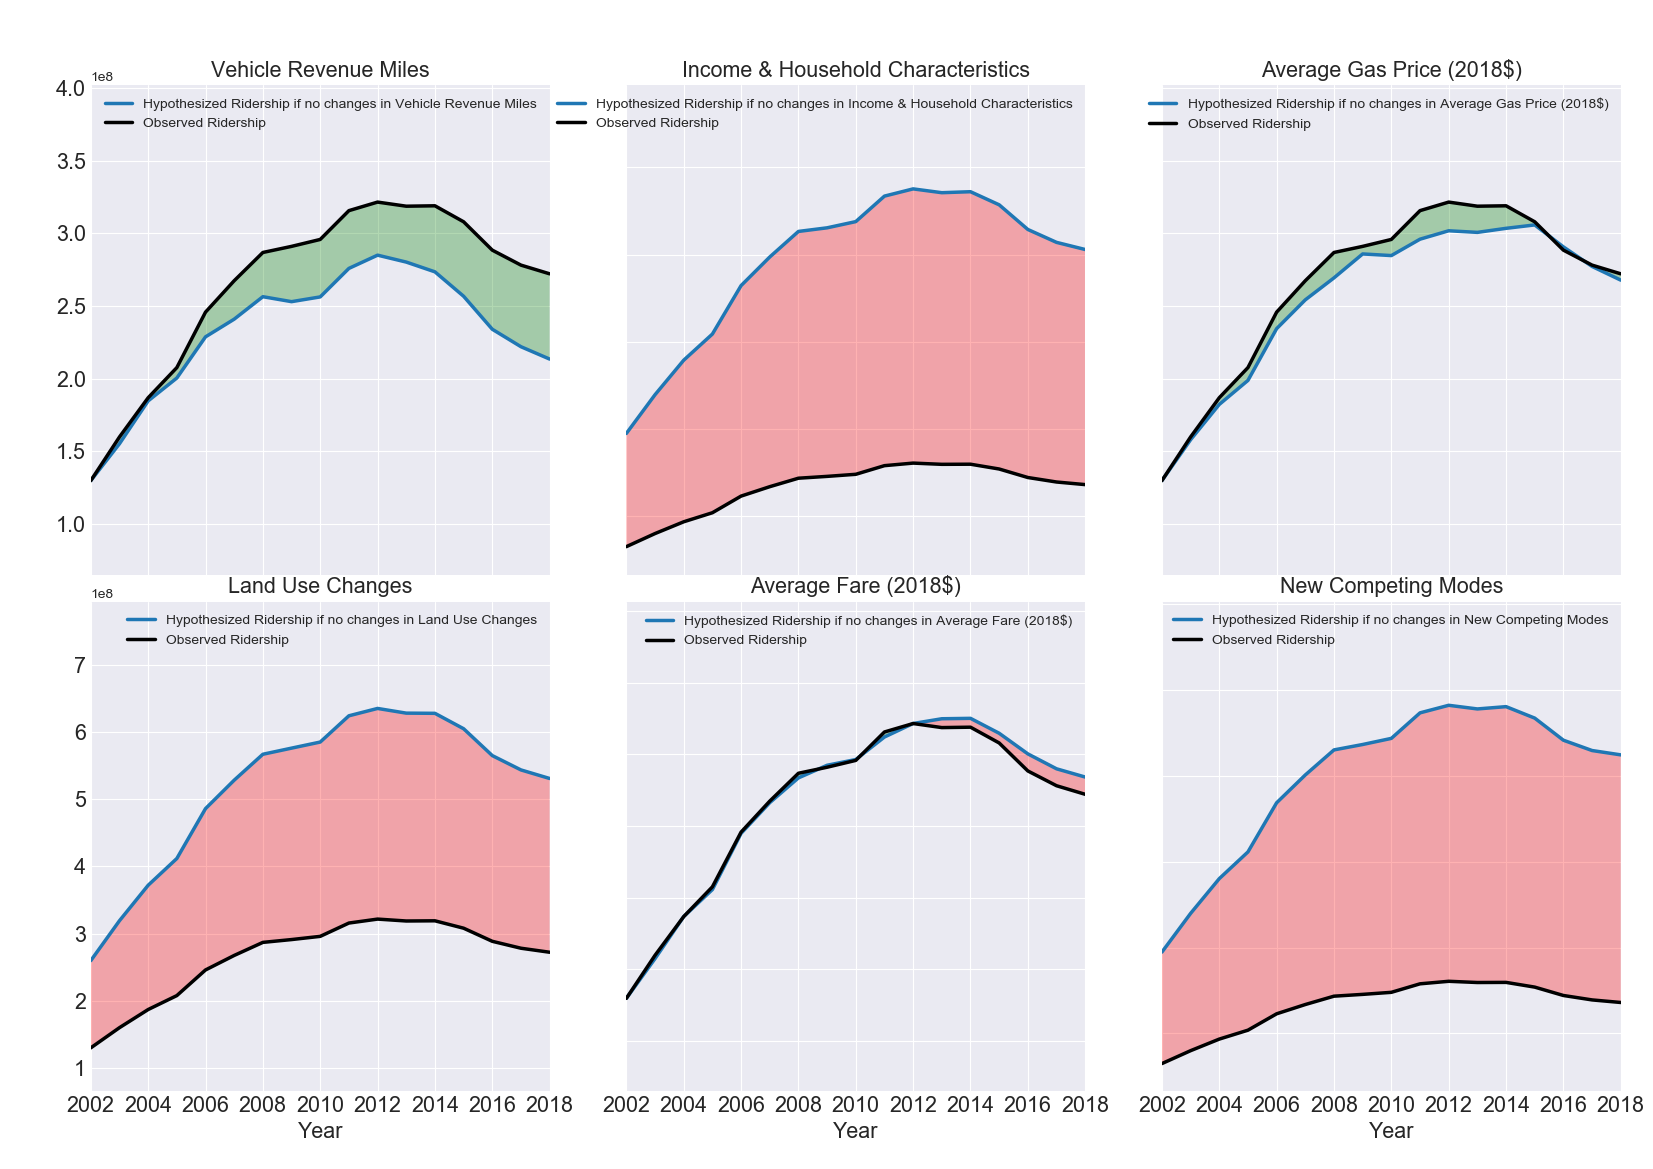
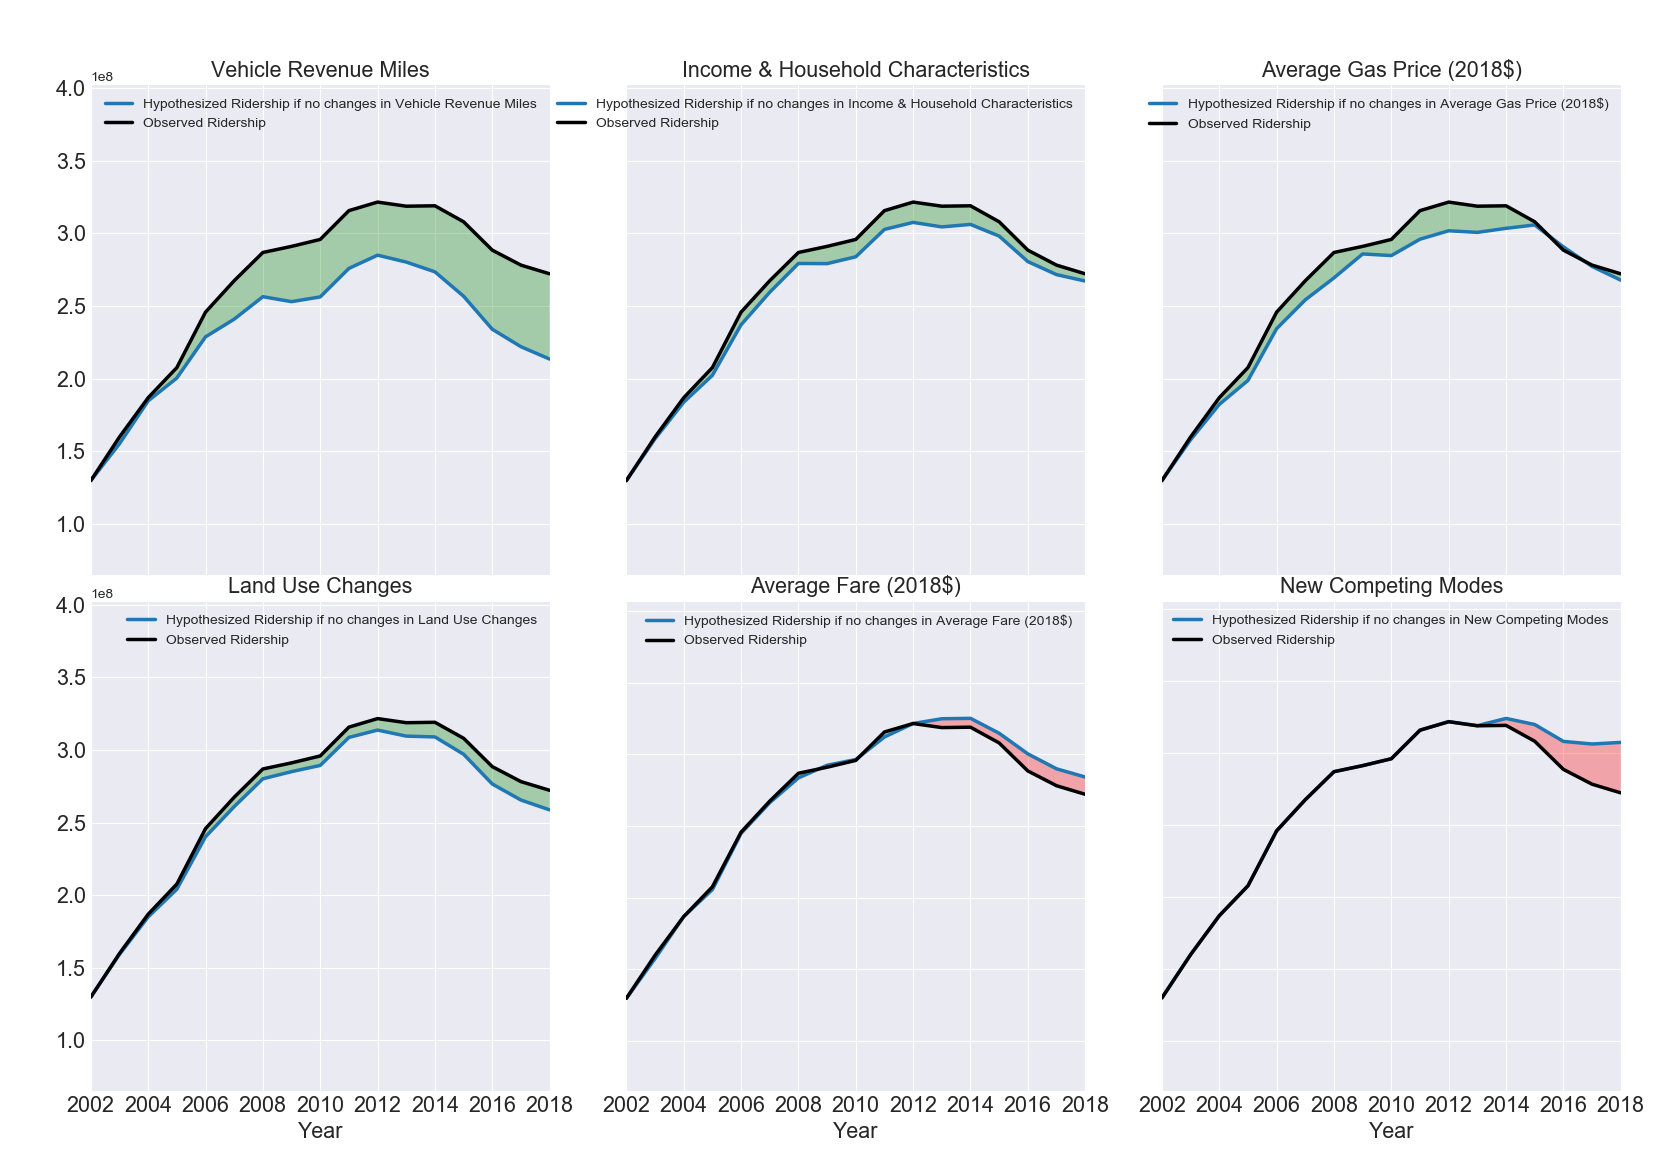
TCRP summary graphs v1.1
modified code as per the discussion; results are now in-sync with our anticipation

diff --git a/Factors and Ridership Data/code/TCRP_Summary_Charts.py b/Factors and Ridership Data/code/TCRP_Summary_Charts.py
@@ -82,13 +82,14 @@ def TCRP_Summary_Charts(df, clustercolumn, chartcols, plot_labels):
             combinechartscol.append('Vehicle_Revenue_Miles')
             combinedchartslabel.append('Vehicle Revenue Miles')
 
-            df_cluster['Land_Use'] = df_cluster['UPT_ADJ_POP_EMP_log_FAC_cumsum'] + df_cluster['UPT_ADJ_TSD_POP_PCT_FAC_cumsum']
+            df_cluster['Land_Use'] = df_cluster['UPT_ADJ'] - df_cluster['POP_EMP_log_FAC_cumsum'] - df_cluster['TSD_POP_PCT_FAC_cumsum']
             combinechartscol.append('Land_Use')
             combinedchartslabel.append('Land Use Changes')
 
-            df_cluster['Inc_HH_Char'] = df_cluster['UPT_ADJ_TOTAL_MED_INC_INDIV_2018_log_FAC_cumsum'] + \
-                                        df_cluster['UPT_ADJ_PCT_HH_NO_VEH_FAC_cumsum'] + \
-                                        df_cluster['UPT_ADJ_JTW_HOME_PCT_FAC_cumsum']
+            df_cluster['Inc_HH_Char'] = df_cluster['UPT_ADJ'] - \
+                                        df_cluster['TOTAL_MED_INC_INDIV_2018_log_FAC_cumsum'] - \
+                                        df_cluster['PCT_HH_NO_VEH_FAC_cumsum'] - \
+                                        df_cluster['JTW_HOME_PCT_FAC_cumsum']
             combinechartscol.append('Inc_HH_Char')
             combinedchartslabel.append('Income & Household Characteristics')
 
@@ -98,11 +99,12 @@ def TCRP_Summary_Charts(df, clustercolumn, chartcols, plot_labels):
             combinechartscol.append('UPT_ADJ_GAS_PRICE_2018_log_FAC_cumsum')
             combinedchartslabel.append('Average Gas Price (2018$)')
 
-            strTNCField = 'UPT_ADJ_'+strTNCField+"_FAC_cumsum"
+            strTNCField = strTNCField+"_FAC_cumsum"
 
-            df_cluster['New_Competing_Modes'] = df_cluster[strTNCField] + \
-                                                df_cluster['UPT_ADJ_BIKE_SHARE_FAC_cumsum'] + \
-                                                df_cluster['UPT_ADJ_scooter_flag_FAC_cumsum']
+            df_cluster['New_Competing_Modes'] =  df_cluster['UPT_ADJ'] - \
+                                                 df_cluster[strTNCField] + \
+                                                df_cluster['BIKE_SHARE_FAC_cumsum'] + \
+                                                df_cluster['scooter_flag_FAC_cumsum']
             combinechartscol.append('New_Competing_Modes')
             combinedchartslabel.append('New Competing Modes')
 
